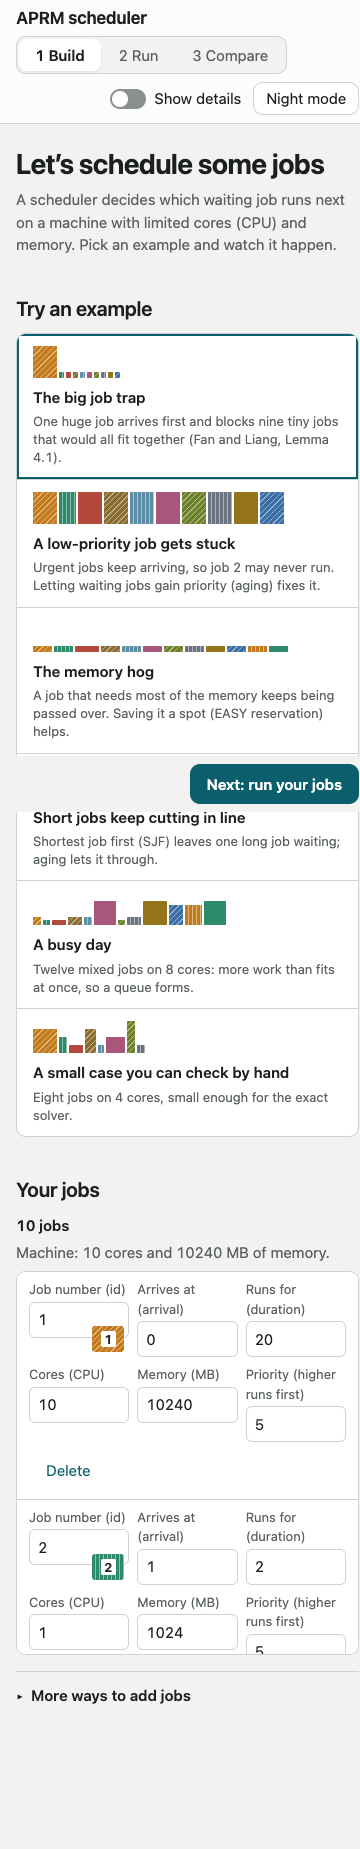
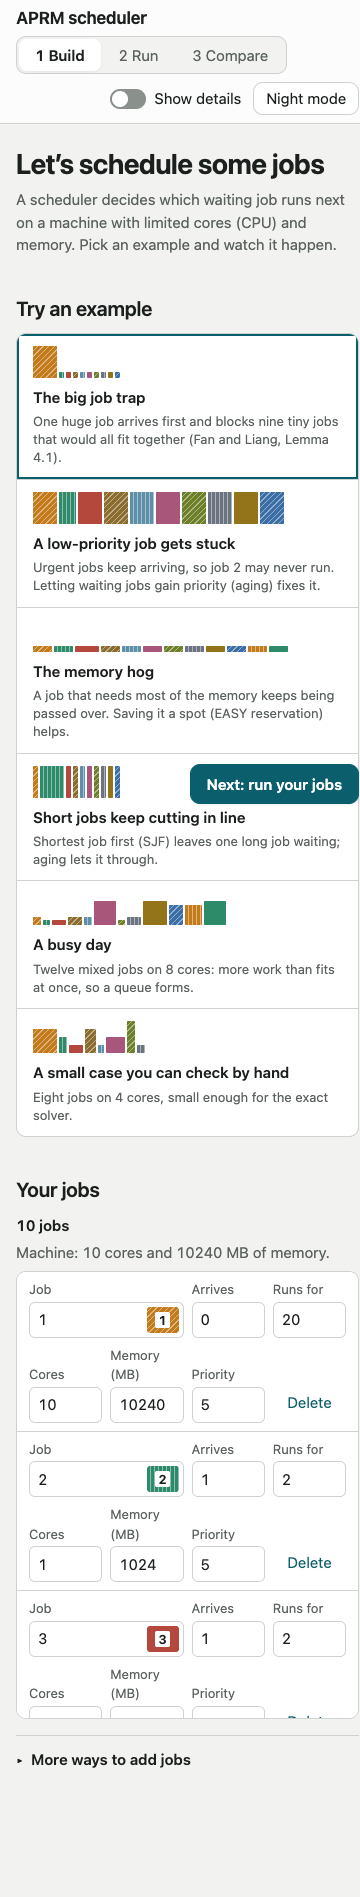
Build on a phone: compact job rows, magnet inside the field, Next without a band; reach checks

diff --git a/web/css/style.css b/web/css/style.css
@@ -63,15 +63,21 @@ main[data-engine="error"] { opacity: 0.5; pointer-events: none; }
 .job-table tfoot { position: sticky; bottom: 0; background: var(--surface); }
 @media (max-width: 45rem) {
   .job-table thead { position: absolute; width: 1px; height: 1px; overflow: hidden; clip: rect(0 0 0 0); }
-  .job-table tbody tr, .job-table tfoot tr { display: grid; grid-template-columns: repeat(3, minmax(0, 1fr)); gap: var(--s-2); padding: var(--s-2) var(--s-3); border-bottom: 1px solid var(--border); }
+  .job-table tbody tr, .job-table tfoot tr { display: grid; grid-template-columns: repeat(4, minmax(0, 1fr)); gap: var(--s-2); padding: var(--s-2) var(--s-3); align-items: end; border-bottom: 1px solid var(--border); }
   .job-table tfoot tr { border-bottom: 0; }
   .job-table tfoot { position: static; }
   .job-table .new-head td { grid-column: 1 / -1; }
   .job-table td { display: block; padding: 0; border: 0; }
-  .job-table .id-cell .magnet { right: 5px; top: auto; bottom: 5px; transform: none; }
   .job-table td[data-label]::before { content: attr(data-label); display: block; color: var(--muted); font-size: var(--fs-caption); margin-bottom: 2px; }
   .job-table td.row-msg:empty { display: none; }
-  .job-table td.row-msg, .job-table td.row-actions { grid-column: 1 / -1; }
+  .job-table td.row-msg { grid-column: 1 / -1; grid-row: 3; }
+  .job-table .id-cell { display: grid; grid-column: span 2; }
+  .job-table .id-cell::before { grid-row: 1; }
+  .job-table .id-cell input, .job-table .id-cell .magnet { grid-row: 2; grid-column: 1; }
+  .job-table .id-cell .magnet { position: static; justify-self: end; align-self: center; margin-right: 5px; transform: none; }
+  .job-table input { min-width: 0; }
+  .job-table td.row-actions .btn { width: 100%; padding-left: 0; padding-right: 0; }
+  .table-wrap { max-height: 28rem; }
 }
 
 /* Run */
@@ -101,4 +107,5 @@ main[data-engine="error"] { opacity: 0.5; pointer-events: none; }
 .next-row { display: flex; align-items: center; justify-content: flex-end; gap: var(--s-4); margin: var(--s-6) 0 0; }
 
 /* Build keeps its one primary action in reach however long the job list is. */
-.build-panel .next-row { position: sticky; bottom: 0; z-index: 5; padding: var(--s-2) 0; background: var(--canvas); }
+.build-panel .next-row { position: sticky; bottom: var(--s-2); z-index: 5; pointer-events: none; }
+.build-panel .next-row .btn { pointer-events: auto; box-shadow: var(--shadow); }

diff --git a/web/index.html b/web/index.html
@@ -61,12 +61,12 @@
         <tfoot>
           <tr class="new-head"><td colspan="8" data-copy="job.new">New job</td></tr>
           <tr class="new-row">
-            <td data-copy-attr="col.id"><input id="add-id" type="text" inputmode="numeric" aria-label="new job id" value="1"></td>
-            <td data-copy-attr="col.arrival"><input id="add-arrival" type="text" inputmode="numeric" aria-label="new job arrival" value="0"></td>
-            <td data-copy-attr="col.duration"><input id="add-duration" type="text" inputmode="numeric" aria-label="new job duration" value="1"></td>
-            <td data-copy-attr="col.cpu"><input id="add-cpu" type="text" inputmode="numeric" aria-label="new job cpu" value="1"></td>
-            <td data-copy-attr="col.mem"><input id="add-mem" type="text" inputmode="numeric" aria-label="new job memory" value="1024"></td>
-            <td data-copy-attr="col.priority"><input id="add-priority" type="text" inputmode="numeric" aria-label="new job priority" value="5"></td>
+            <td data-copy-attr="short.col.id"><input id="add-id" type="text" inputmode="numeric" aria-label="new job id" value="1"></td>
+            <td data-copy-attr="short.col.arrival"><input id="add-arrival" type="text" inputmode="numeric" aria-label="new job arrival" value="0"></td>
+            <td data-copy-attr="short.col.duration"><input id="add-duration" type="text" inputmode="numeric" aria-label="new job duration" value="1"></td>
+            <td data-copy-attr="short.col.cpu"><input id="add-cpu" type="text" inputmode="numeric" aria-label="new job cpu" value="1"></td>
+            <td data-copy-attr="short.col.mem"><input id="add-mem" type="text" inputmode="numeric" aria-label="new job memory" value="1024"></td>
+            <td data-copy-attr="short.col.priority"><input id="add-priority" type="text" inputmode="numeric" aria-label="new job priority" value="5"></td>
             <td colspan="2" class="row-actions"><button type="button" class="btn" id="add-submit" data-copy="job.add">Add job</button></td>
           </tr>
         </tfoot>

diff --git a/web/js/editor.js b/web/js/editor.js
@@ -268,7 +268,7 @@
   /* One editable cell. */
   function makeCell(index, field, value, problem) {
     var td = document.createElement('td');
-    if (APRM.copy) { td.setAttribute('data-label', APRM.copy.get('col.' + field)); }
+    if (APRM.copy) { td.setAttribute('data-label', APRM.copy.get('short.col.' + field)); }
     var key = index + ':' + field;
     var input = document.createElement('input');
     input.setAttribute('type', 'text');

diff --git a/web/js/copy.js b/web/js/copy.js
@@ -64,6 +64,12 @@
     'col.mem': 'Memory (MB)',
     'col.priority': 'Priority (higher runs first)',
     'col.problem': 'Problem',
+    'short.col.id': 'Job',
+    'short.col.arrival': 'Arrives',
+    'short.col.duration': 'Runs for',
+    'short.col.cpu': 'Cores',
+    'short.col.mem': 'Memory (MB)',
+    'short.col.priority': 'Priority',
     'job.add': 'Add job',
     'job.new': 'New job',
     'build.count.limit': ' (limit {n})',
